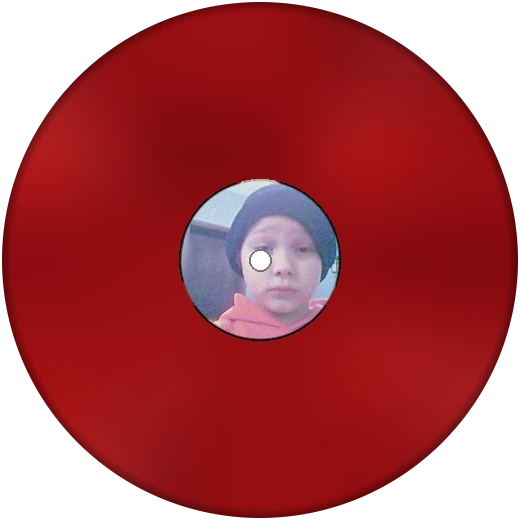
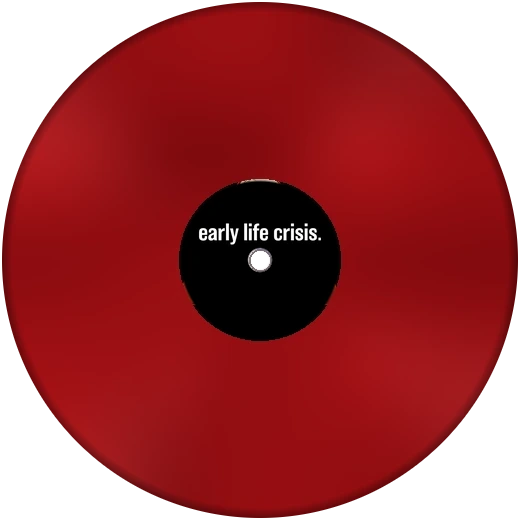
Nettspend, pistes sales : pochette noire franche au titre blanc, et la meme en etiquette du vinyle rouge (variante au titre rouge prete)

Changed region(s): [[0.3385, 0.3385, 0.6769, 0.6769]]

diff --git a/index.html b/index.html
@@ -20,7 +20,7 @@
 <link rel="preload" href="assets/fonts/Kingjola.woff2" as="font" type="font/woff2" crossorigin>
 <link rel="preload" href="assets/fonts/InstrumentSerif.woff2" as="font" type="font/woff2" crossorigin>
 <link rel="preload" href="assets/fonts/ZenKakuGothicNew-Medium-jp.woff2" as="font" type="font/woff2" crossorigin>
-<link rel="stylesheet" href="style.css?v=128">
+<link rel="stylesheet" href="style.css?v=129">
 </head>
 <body>
 
@@ -184,7 +184,7 @@
         <div class="disc-spin" id="discSpin">
           <img class="disc" src="assets/disc.webp?v=2" alt="">
           <!-- Nettspend, pistes sales : le vinyle rouge, en fondu par-dessus -->
-          <img class="disc-d" src="assets/disc7_d.webp" alt="" loading="lazy">
+          <img class="disc-d" src="assets/disc7_d.webp?v=2" alt="" loading="lazy">
         </div>
       </div>
       <span class="spindle"></span>

diff --git a/style.css b/style.css
@@ -2847,7 +2847,7 @@ body.alb-nett.is-film-nettd .trk .bub{border-color:transparent}
 body.alb-nett.is-film-nettd #vol{box-shadow:none}
 body.alb-nett.is-film-nettd #vol::-webkit-slider-thumb{background:linear-gradient(180deg,#8a1a1e,#3a0506);box-shadow:0 4px 8px rgba(0,0,0,.5);border-color:rgba(0,0,0,.4)}
 /* et la pochette : la noire au titre blanc, telle quelle */
-body.alb-nett.is-film-nettd .sleeve{content:url("assets/cover7_d.png")}
+body.alb-nett.is-film-nettd .sleeve{content:url("assets/cover7_d.png?v=2")}
 .disc-d{display:none}
 body.alb-nett .disc-d{display:block;position:absolute;inset:0;width:100%;height:100%;
   opacity:0;filter:drop-shadow(0 6px 10px rgba(10,0,0,.5));pointer-events:none}
